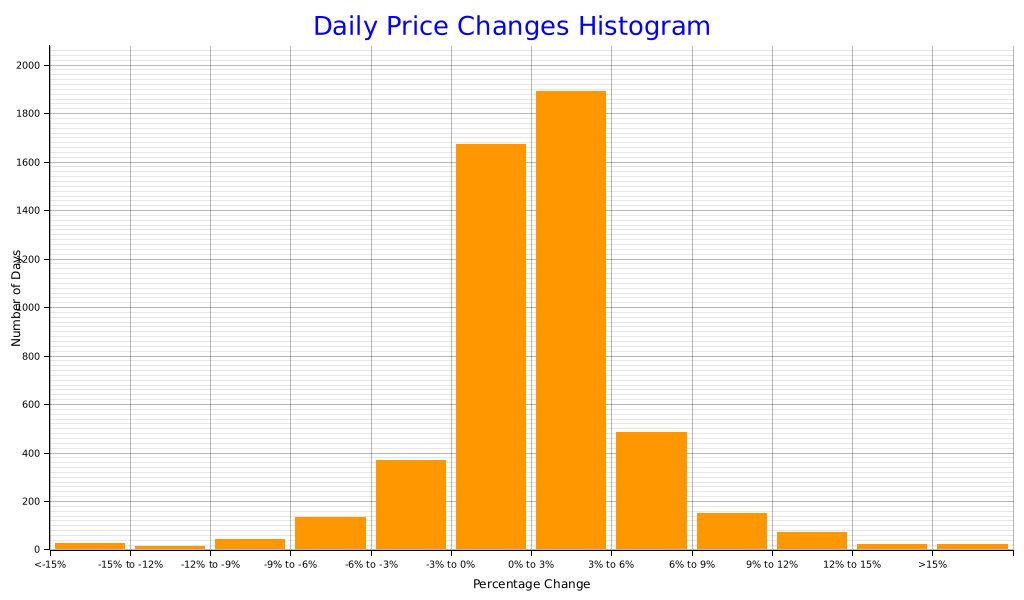
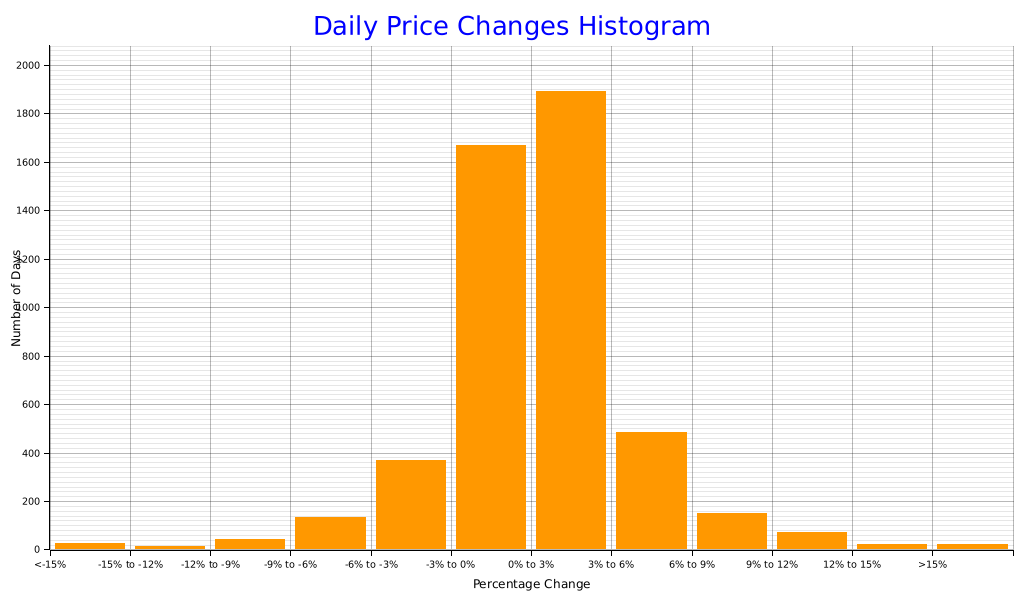
deploy: 32c38bfc33973f71076a7465fb8cd65e6d188ef2

diff --git a/index.html b/index.html
@@ -168,11 +168,11 @@
         </tr>
         <tr>
           <td>-3% to 0%</td>
-          <td>1671</td>
+          <td>1670</td>
         </tr>
         <tr>
           <td>0% to 3%</td>
-          <td>1890</td>
+          <td>1891</td>
         </tr>
         <tr>
           <td>3% to 6%</td>
@@ -225,12 +225,12 @@
             <td>96,829.01</td>
             <td>97,583.91</td>
             <td>96,327.91</td>
-            <td>96,789.18</td>
-            <td class='wma-column'>46,717.26</td>
-            <td>44.95 (0.09 %)</td>
-            <td>62,933.85 (185.8 %)</td>
+            <td>96,920.40</td>
+            <td class='wma-column'>46,717.35</td>
+            <td>45.05 (0.09 %)</td>
+            <td>63,065.07 (186.2 %)</td>
             <td>1,256.00 (1.2 %)</td>
-            <td>-13.28 (0.0 %)</td>
+            <td>117.92 (0.1 %)</td>
           </tr>
           <tr>
             <td>2025-05-06</td>
